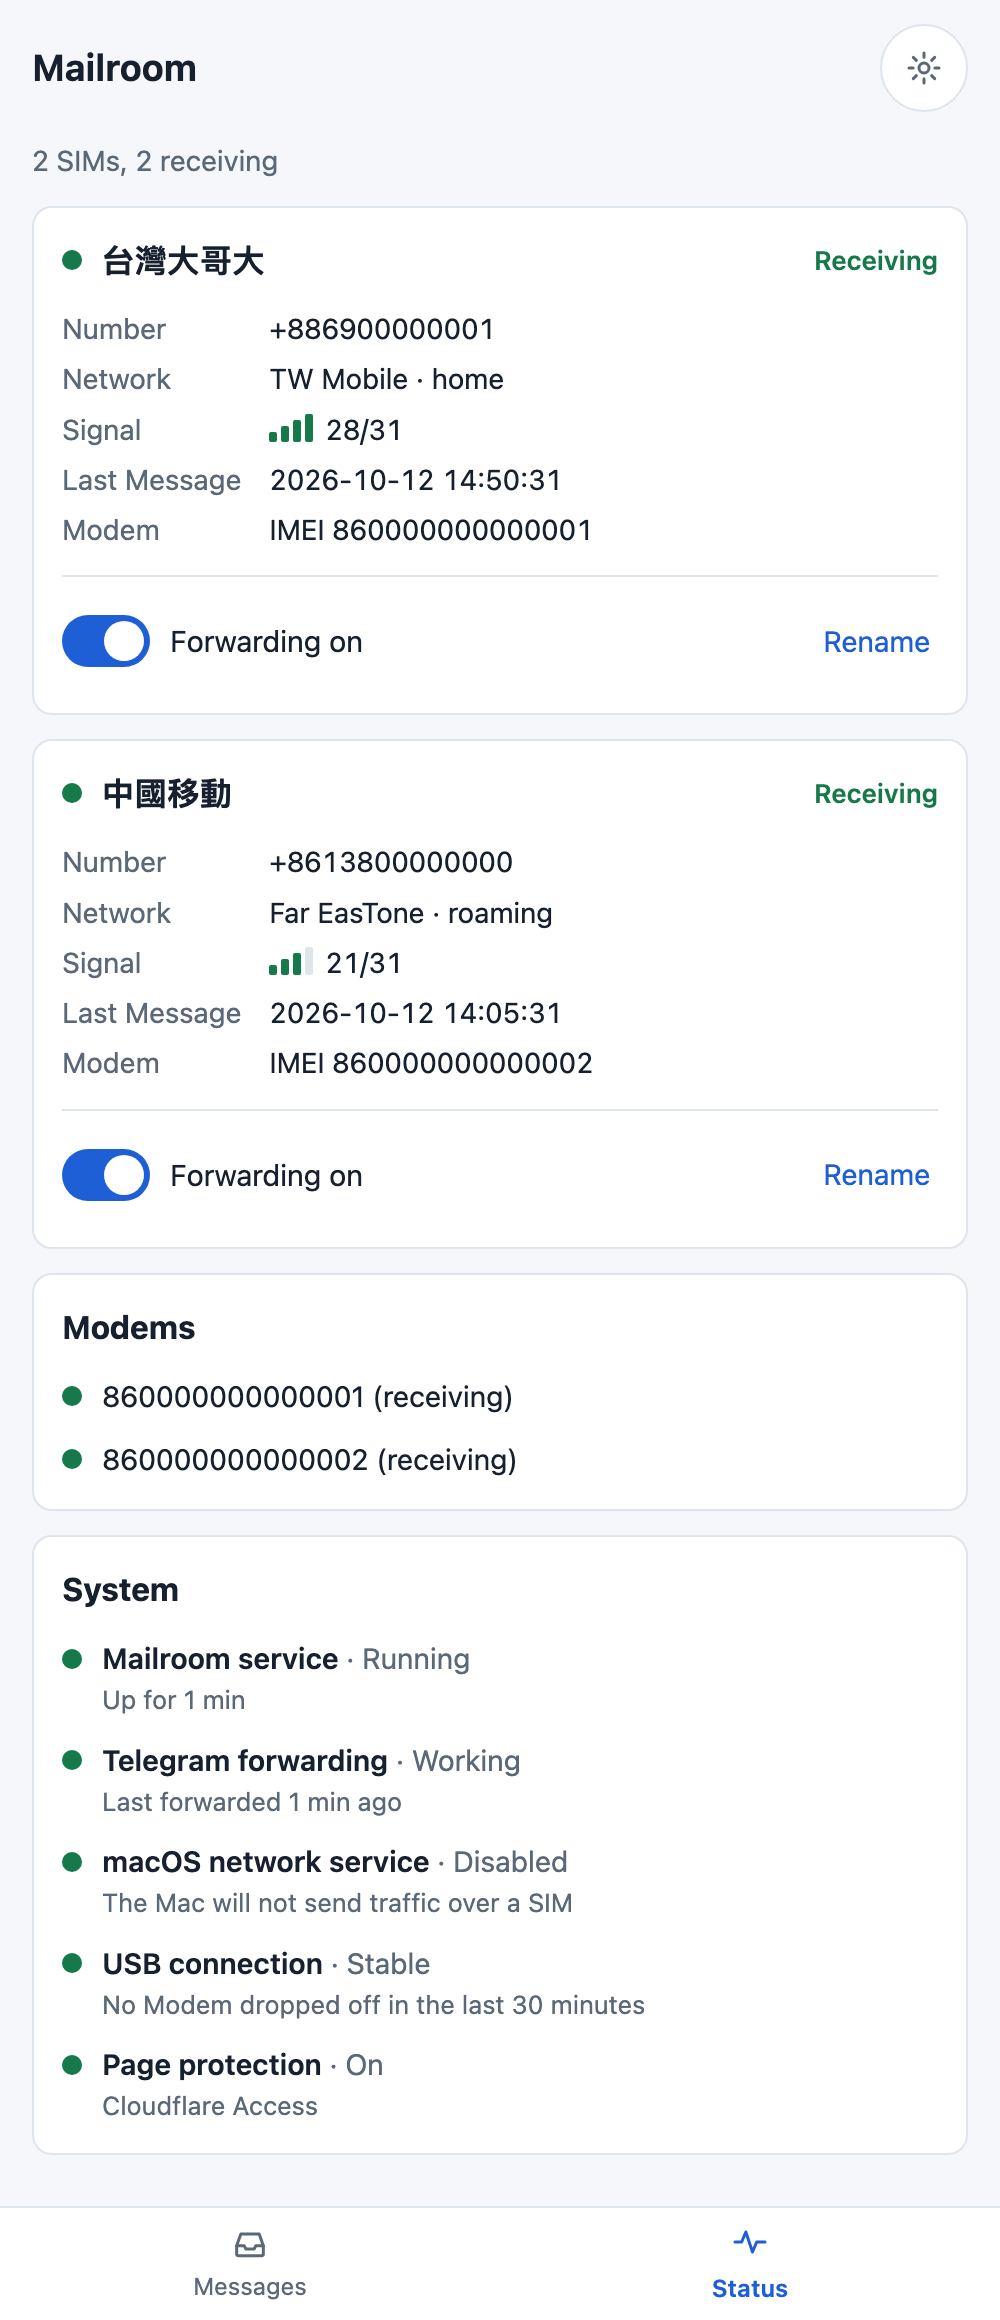
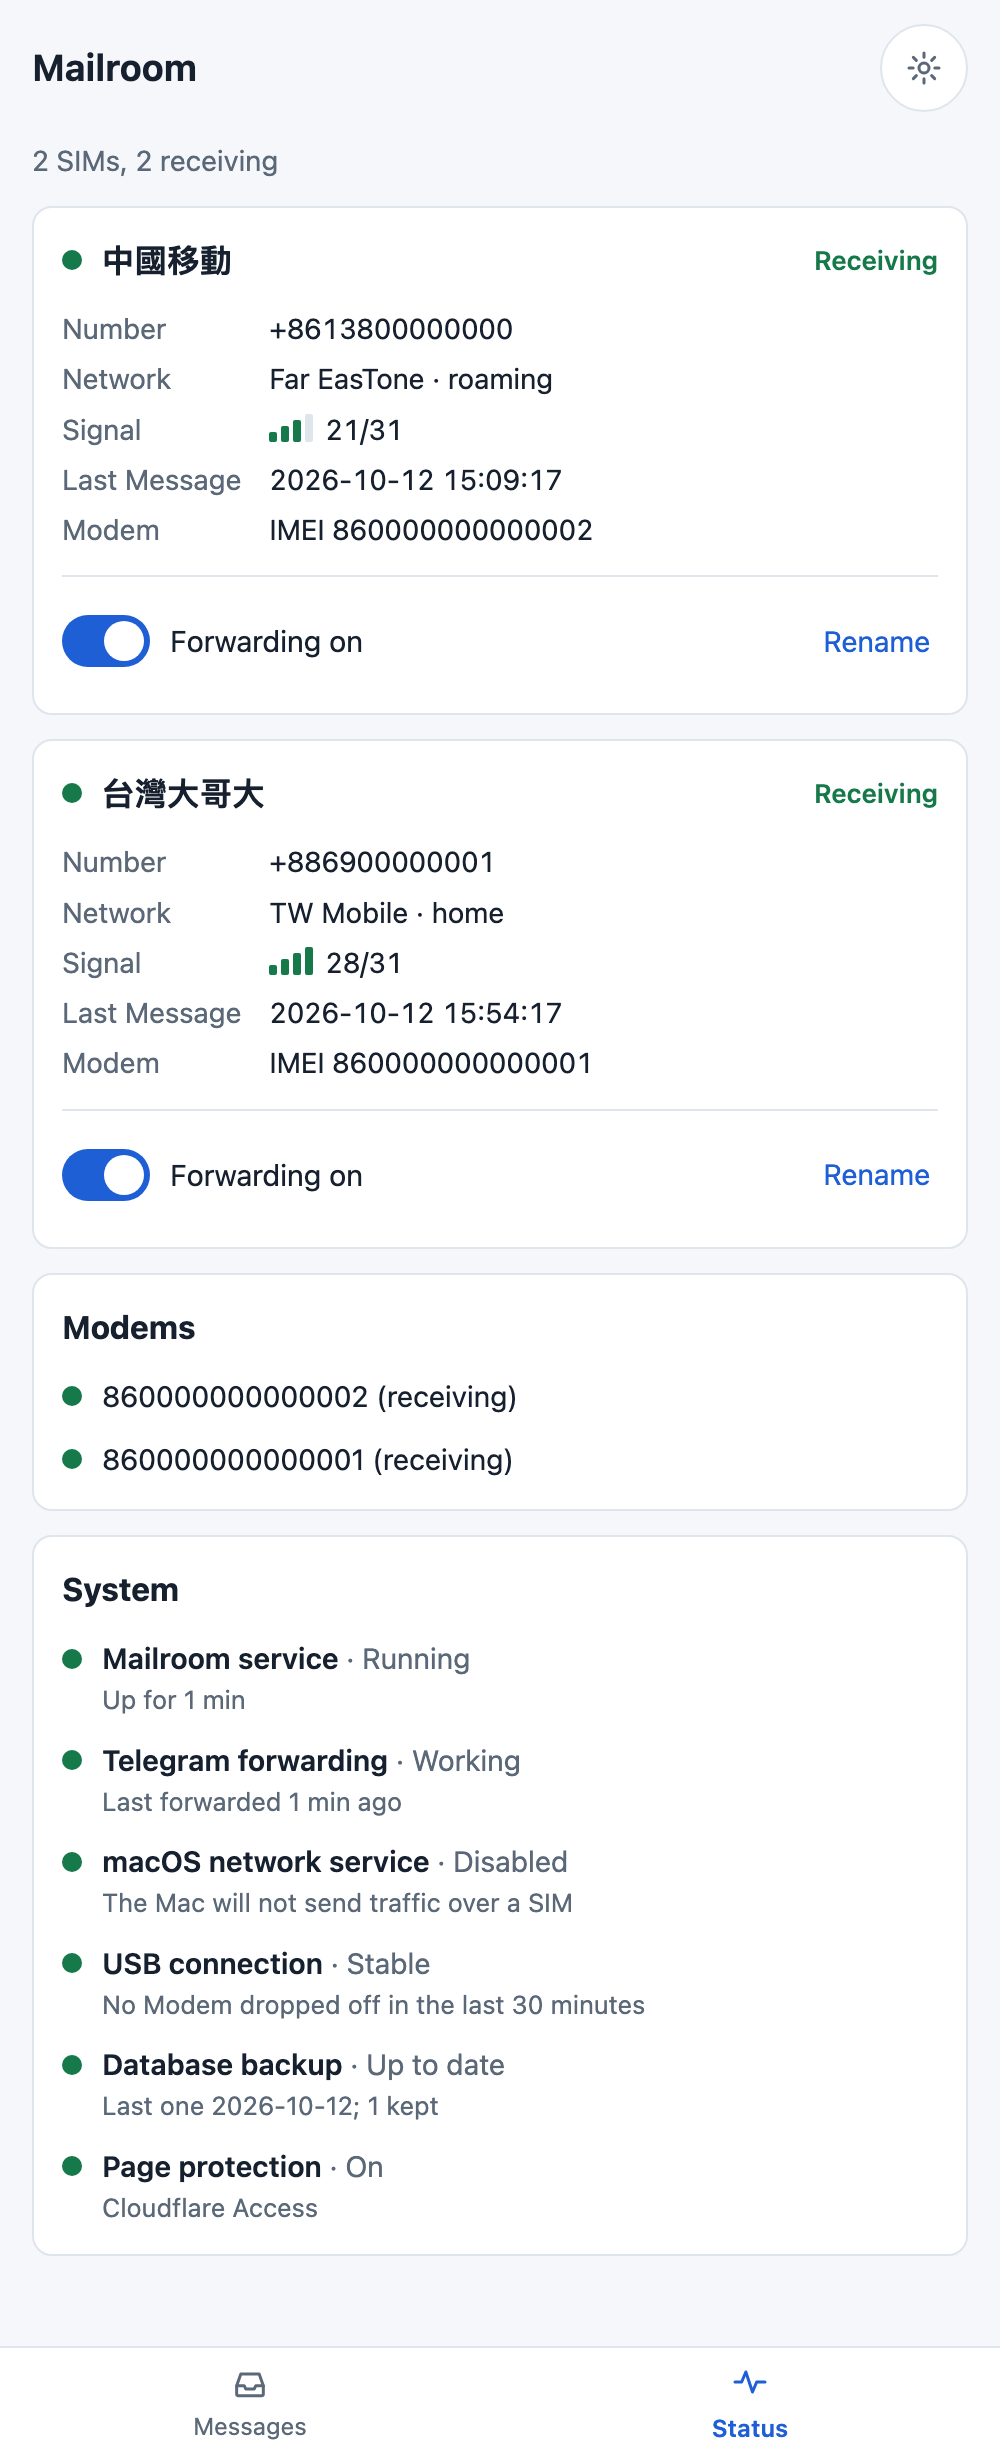
Refresh the README screenshots and show both languages
Retake the screenshots with the backup row and the fixed copy button,
add the dark appearance in English, and show the Chinese and English
interfaces in both READMEs. All data shown is invented.

Claude-Session: https://claude.ai/code/session_011h4iS9FLFg1nRU6RzJaRqh

diff --git a/README.en.md b/README.en.md
@@ -6,11 +6,23 @@ Mailroom lets an always-on Mac receive your SMS for you. Put each SIM in a USB 4
 
 It exists to fix one specific annoyance: a handful of SIMs kept only for verification codes, each sitting in a phone left at home, unreachable when you are out, with codes that expire in minutes.
 
+English interface:
+
 <p>
-  <img src="./docs/images/messages-en.png" alt="Messages" width="260">
-  <img src="./docs/images/status-en.png" alt="Status" width="260">
-  <img src="./docs/images/messages-dark.png" alt="Dark appearance" width="260">
+  <img src="./docs/images/messages-en.png" alt="Messages (English interface)" width="260">
+  <img src="./docs/images/status-en.png" alt="Status (English interface)" width="260">
+  <img src="./docs/images/messages-dark-en.png" alt="Dark appearance (English interface)" width="260">
 </p>
+
+Chinese interface:
+
+<p>
+  <img src="./docs/images/messages-zh.png" alt="簡訊（中文介面）" width="260">
+  <img src="./docs/images/status-zh.png" alt="狀態（中文介面）" width="260">
+  <img src="./docs/images/messages-dark-zh.png" alt="深色外觀（中文介面）" width="260">
+</p>
+
+The numbers, modems and messages shown are sample data.
 
 ## Features
 
